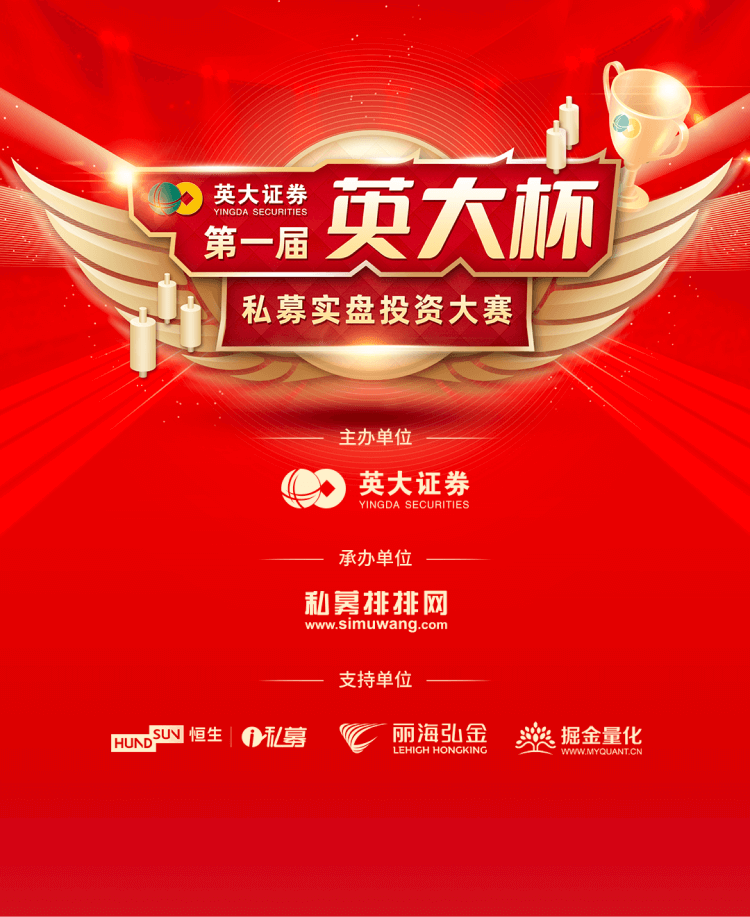
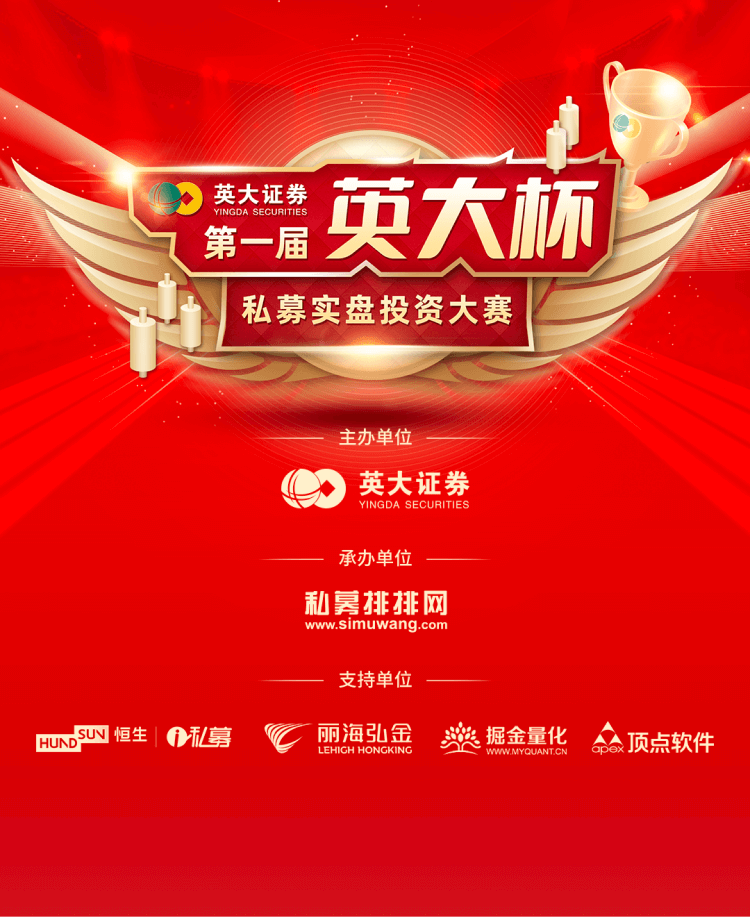
fix(): 英大证券图案修改

Changed region(s): [[0.0307, 0.7634, 0.9507, 0.8244]]

diff --git a/pages/index/introduction.vue b/pages/index/introduction.vue
@@ -37,6 +37,10 @@
           <a class="ydzq-jjlh-logo" href="https://www.myquant.cn/" target="_blank"></a>
           <a class="ydzq-jjlh-name" href="https://www.myquant.cn/" target="_blank"></a>
         </div>
+        <div class="item">
+          <a class="ydzq-ddrj-logo" href="https://www.apexsoft.com.cn/index.jsp" target="_blank"></a>
+          <a class="ydzq-ddrj-name" href="https://www.apexsoft.com.cn/index.jsp" target="_blank"></a>
+        </div>
       </common-flex>
       <common-flex direction="column" class="route-link dbzq" v-if="i.title === '大赛组委会简介' && match_code === 'dbzq'">
         <div class="item">
@@ -137,7 +141,7 @@ export default {
       }
     }
     .ydzq {
-      height: 1910px;
+      height: 2390px;
       .item {
         flex-grow: 1;
         position: relative;
@@ -158,21 +162,21 @@ export default {
         .ydzq-ppw-logo {
           position: absolute;
           left: 117px;
-          top: 284px;
+          top: 270px;
           width: 203px;
           height: 84px;
         }
         .ydzq-ppw-name {
           position: absolute;
           left: 403px;
-          top: 140px;
+          top: 122px;
           width: 203px;
           height: 42px;
         }
         .ydzq-hs-logo {
           position: absolute;
           left: 105px;
-          top: 360px;
+          top: 325px;
           width: 228px;
           height: 84px;
           z-index: 10;
@@ -180,14 +184,14 @@ export default {
         .ydzq-hs-name {
           position: absolute;
           left: 395px;
-          top: 225px;
+          top: 190px;
           width: 203px;
           height: 42px;
         }
         .ydzq-lhhj-logo {
           position: absolute;
           left: 105px;
-          top: 328px;
+          top: 280px;
           width: 228px;
           height: 84px;
           z-index: 10;
@@ -195,23 +199,37 @@ export default {
         .ydzq-lhhj-name {
           position: absolute;
           left: 395px;
-          top: 264px;
+          top: 217px;
           width: 203px;
           height: 42px;
         }
         .ydzq-jjlh-logo {
           position: absolute;
           left: 105px;
-          bottom: 76px;
+          bottom: 165px;
           width: 228px;
           height: 84px;
         }
         .ydzq-jjlh-name {
           position: absolute;
           left: 395px;
-          top: 153px;
+          top: 88px;
           width: 303px;
           height: 42px;
+        }
+        .ydzq-ddrj-name {
+          position: absolute;
+          left: 395px;
+          top: -40px;
+          width: 303px;
+          height: 42px;
+        }
+        .ydzq-ddrj-logo {
+          position: absolute;
+          left: 105px;
+          top: 20px;
+          width: 228px;
+          height: 84px;
         }
       }
     }

diff --git a/pages/mobile/introduction.vue b/pages/mobile/introduction.vue
@@ -40,6 +40,9 @@
         <div class="item">
           <a class="jjlh-link" href="https://www.myquant.cn/" target="_blank"></a>
         </div>
+        <div class="item">
+          <a class="ddrj-link" href="https://www.apexsoft.com.cn/index.jsp" target="_blank"></a>
+        </div>
       </common-flex>
       <common-flex direction="column" class="route-link dbzq" v-if="j === 3 && match_code === 'dbzq'">
         <div class="item">
@@ -151,7 +154,7 @@ export default {
       }
     }
     .ydzq {
-      height: 35rem;
+      height: 43rem;
       a {
         position: absolute;
         left: 50%;
@@ -163,18 +166,22 @@ export default {
         top: 1.7rem;
       }
       .ppw-link {
-        top: 1.6rem;
+        top: 1.4rem;
       }
       .hs-link {
         width: 3rem;
-        top: 2.8rem;
+        top: 2.6rem;
       }
       .lhhj-link {
-        top: 3.7rem;
+        top: 3.3rem;
       }
       .jjlh-link {
         width: 4rem;
-        top: 2.4rem;
+        top: 1.6rem;
+      }
+      .ddrj-link {
+        width: 4rem;
+        top: -.5rem;
       }
     }
     .dbzq {
